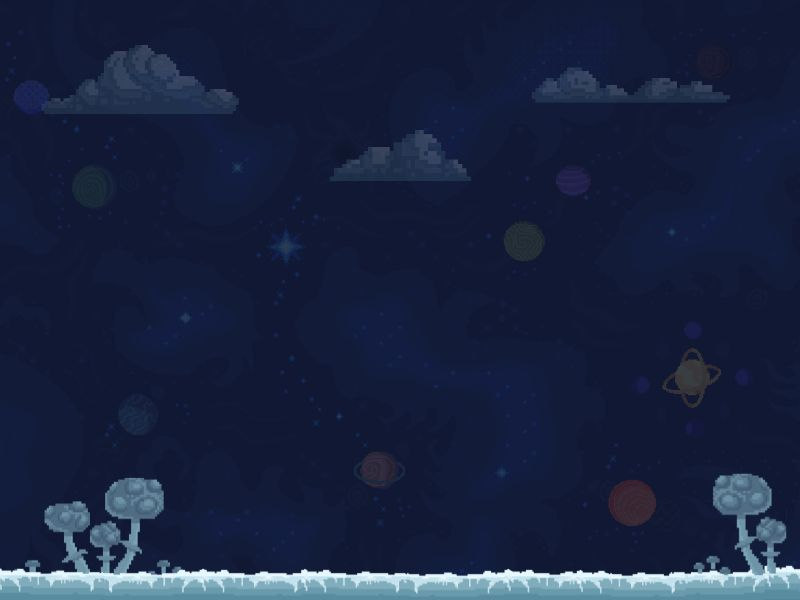
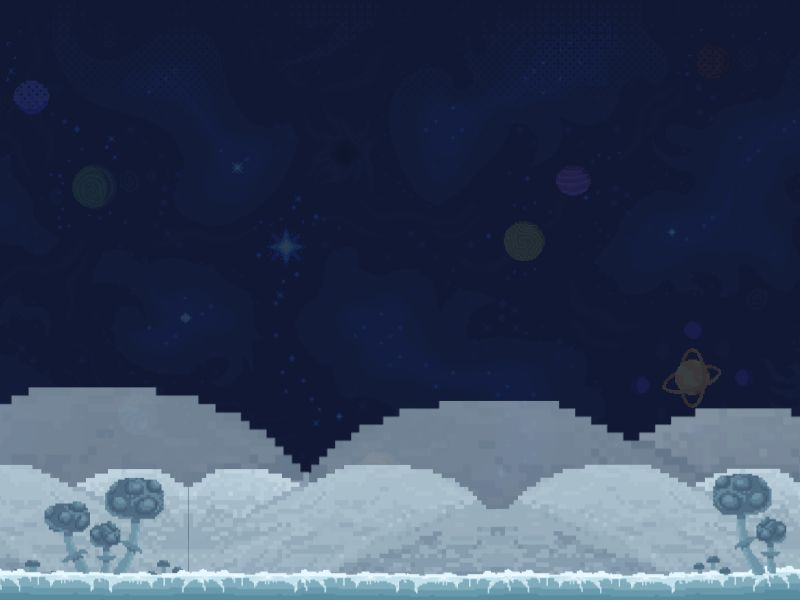
Polish minigame 1

diff --git a/src/main/java/com/unidawgs/le5/clubdawgs/Minigame1.java b/src/main/java/com/unidawgs/le5/clubdawgs/Minigame1.java
@@ -59,7 +59,7 @@ public class Minigame1 extends Application{
 	 private final Image[] BACKGROUNDS = new Image[]{
         new Image(getClass().getResource("bg1.jpg").toExternalForm()), // Background 1
         new Image(getClass().getResource("bg2.jpg").toExternalForm()), // Background 2
-        new Image(getClass().getResource("bg3.png").toExternalForm())  // Background 3
+        new Image(getClass().getResource("bg3.jpg").toExternalForm())  // Background 3
     };
     private int currentBackgroundIndex = 0;
     private long lastBackgroundChangeTime = System.currentTimeMillis(); // Time when background was last changed
@@ -134,7 +134,7 @@ public class Minigame1 extends Application{
 	private void run(GraphicsContext gc) {
 		 // Handle background switch after 1 minute
 		 long currentTime = System.currentTimeMillis();
-		 if (currentTime - lastBackgroundChangeTime >= 30000) { // If 30 seconds have passed
+		 if (currentTime - lastBackgroundChangeTime >= 15000) { // If 30 seconds have passed
 			 currentBackgroundIndex = (currentBackgroundIndex + 1) % BACKGROUNDS.length; // Cycle through the backgrounds
 			 lastBackgroundChangeTime = currentTime; // Update the last background change time
 		 }
@@ -325,7 +325,7 @@ public class PowerUpTreat extends PowerUp {
 
     @Override
     public void initialize() {
-        this.img = new Image(getClass().getResource("treat.jpg").toExternalForm()); // Set the image here
+        this.img = new Image(getClass().getResource("treat.png").toExternalForm()); // Set the image here
         this.activationTime = System.currentTimeMillis();
     }
 
@@ -388,7 +388,7 @@ public class PowerUpTreat extends PowerUp {
 		public void draw() {
 			gc.setFill(Color.web("#A4D143"));
 			if (score >=50 && score<=70 || score>=120) {
-				gc.setFill(Color.YELLOWGREEN);
+				gc.setFill(Color.web("#FF3AA9"));
 				speed = 50;
 				gc.fillRect(posX-5, posY-10, size+10, size+30);
 			} else {

diff --git a/src/main/java/com/unidawgs/le5/clubdawgs/Minigame1ViewManager.java b/src/main/java/com/unidawgs/le5/clubdawgs/Minigame1ViewManager.java
@@ -54,7 +54,7 @@ public class Minigame1ViewManager {
 	 private final Image[] BACKGROUNDS = new Image[]{
         new Image(getClass().getResource("bg1.jpg").toExternalForm()), // Background 1
         new Image(getClass().getResource("bg2.jpg").toExternalForm()), // Background 2
-        new Image(getClass().getResource("bg3.png").toExternalForm())  // Background 3
+        new Image(getClass().getResource("bg3.jpg").toExternalForm())  // Background 3
     };
     private int currentBackgroundIndex = 0;
     private long lastBackgroundChangeTime = System.currentTimeMillis(); // Time when background was last changed
